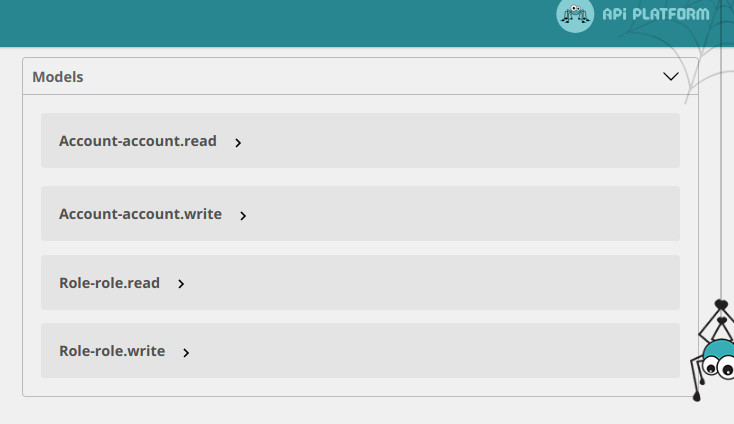
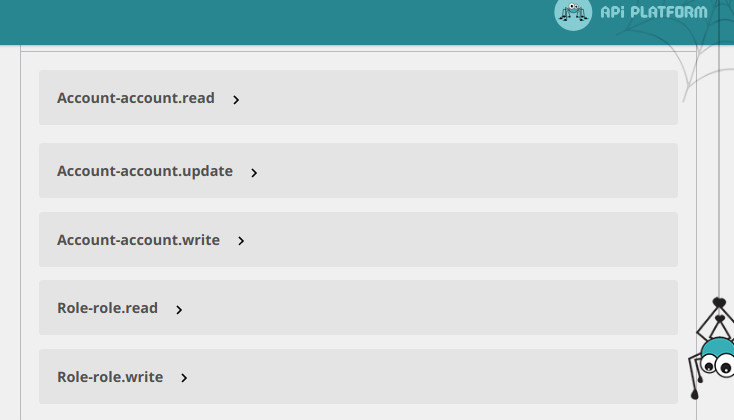
But what in case when we want to be able to update only password and isActive instead of username?
We can deal with it by configuring denormalization_context for put method in itemOperations and adding a new group to the Account.php

diff --git a/src/Entity/Account.php b/src/Entity/Account.php
@@ -16,6 +16,11 @@ use Symfony\Component\Validator\Constraints as Assert;
  * @ApiResource(attributes={
  *   "normalization_context"={"groups"={"account.read"}},
  *   "denormalization_context"={"groups"={"account.write"}}
+ * },
+ * itemOperations={
+ *   "put"={"denormalization_context"={"groups"={"account.update"}}},
+ *   "get",
+ *   "delete"
  * })
  * @ORM\Entity(repositoryClass="App\Repository\AccountRepository")
  * @ApiFilter(BooleanFilter::class, properties={"isActive"})
@@ -45,7 +50,8 @@ class Account {
    * @ORM\Column(type="boolean", options={"default" : false})
    * @Groups({
    *  "account.read",
-   *  "account.write"
+   *  "account.write",
+   *  "account.update"
    * })
    */
   private $isActive;
@@ -63,7 +69,8 @@ class Account {
    * @ORM\Column(type="string", length=255)
    * @Assert\NotBlank(message="Please provide password")
    * @Groups({
-   *  "account.write"
+   *  "account.write",
+   *  "account.update"
    * })
    */
   private $password;
